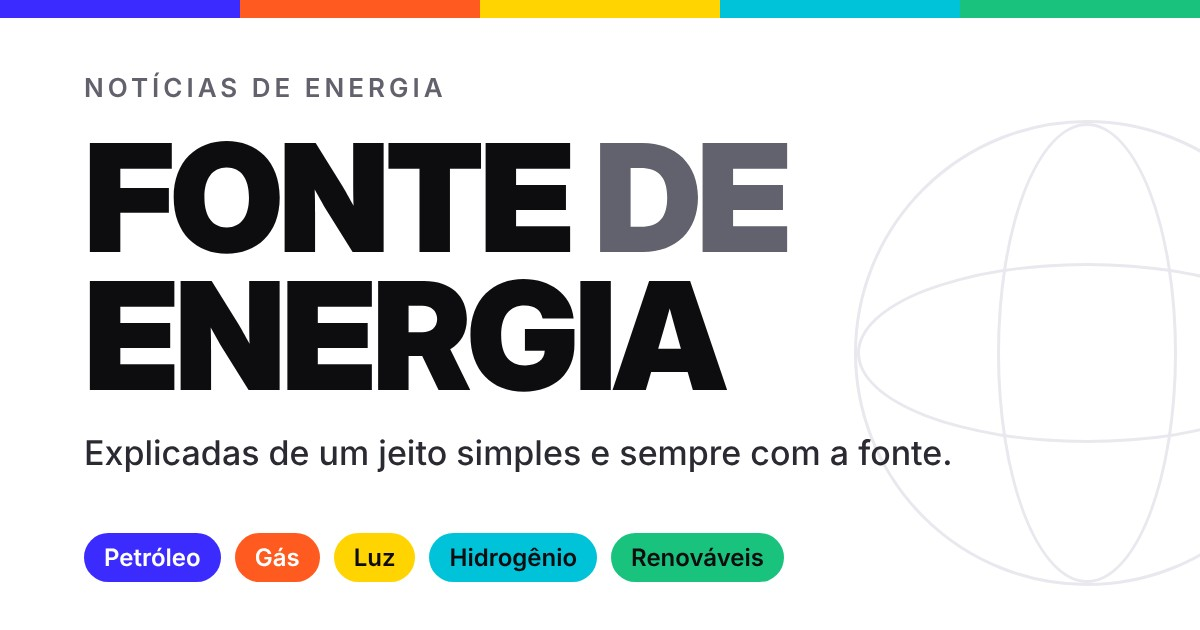
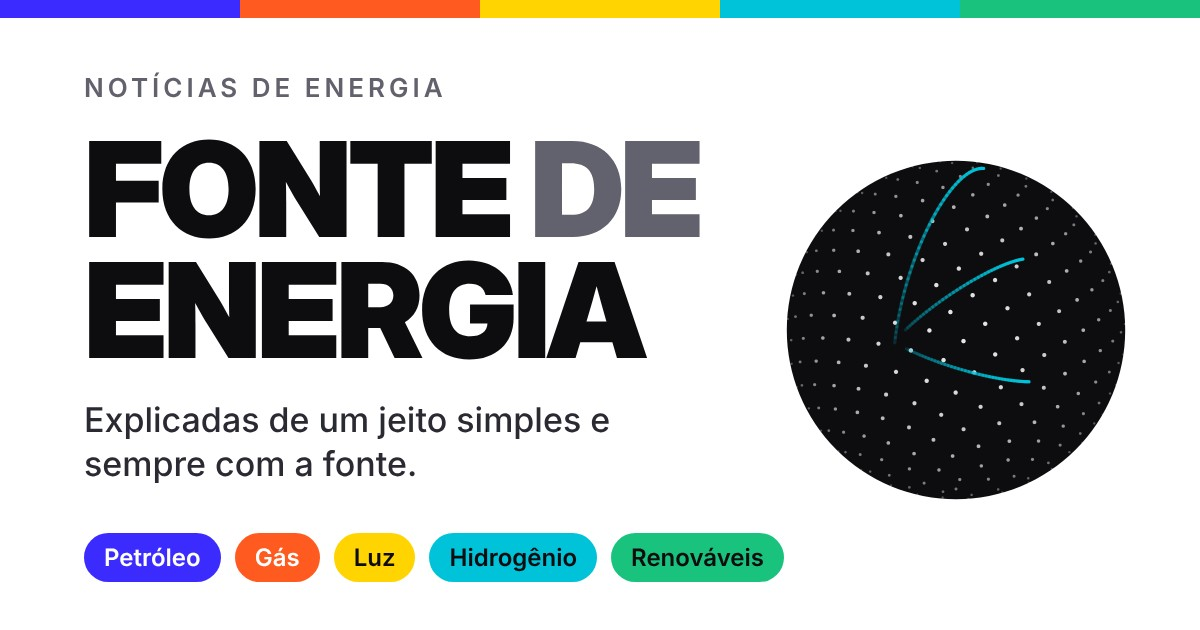
Capa de compartilhamento com o globo do site
Claude-Session: https://claude.ai/code/session_013ZHC37a3KfsE8yrJWidpAC

Changed region(s): [[0.0617, 0.2111, 0.9558, 0.8143]]

diff --git a/index.html b/index.html
@@ -11,14 +11,14 @@
 <meta property="og:title" content="Fonte de Energia">
 <meta property="og:description" content="Petróleo, gás, luz, hidrogênio e renováveis, explicados de um jeito simples e sempre com a fonte.">
 <meta property="og:url" content="https://fonte-de-energia.arilson-sbjunior.workers.dev/">
-<meta property="og:image" content="https://fonte-de-energia.arilson-sbjunior.workers.dev/og.jpg">
-<meta property="og:image:secure_url" content="https://fonte-de-energia.arilson-sbjunior.workers.dev/og.jpg">
+<meta property="og:image" content="https://fonte-de-energia.arilson-sbjunior.workers.dev/og.jpg?v=2">
+<meta property="og:image:secure_url" content="https://fonte-de-energia.arilson-sbjunior.workers.dev/og.jpg?v=2">
 <meta property="og:image:type" content="image/jpeg">
 <meta property="og:image:width" content="1200">
 <meta property="og:image:height" content="630">
 <meta property="og:image:alt" content="Fonte de Energia: notícias de petróleo, gás, luz, hidrogênio e renováveis">
 <meta name="twitter:card" content="summary_large_image">
-<meta name="twitter:image" content="https://fonte-de-energia.arilson-sbjunior.workers.dev/og.jpg">
+<meta name="twitter:image" content="https://fonte-de-energia.arilson-sbjunior.workers.dev/og.jpg?v=2">
 <link rel="canonical" href="https://fonte-de-energia.arilson-sbjunior.workers.dev/">
 <link rel="preconnect" href="https://images.pexels.com">
 <link rel="preconnect" href="https://images.unsplash.com">
